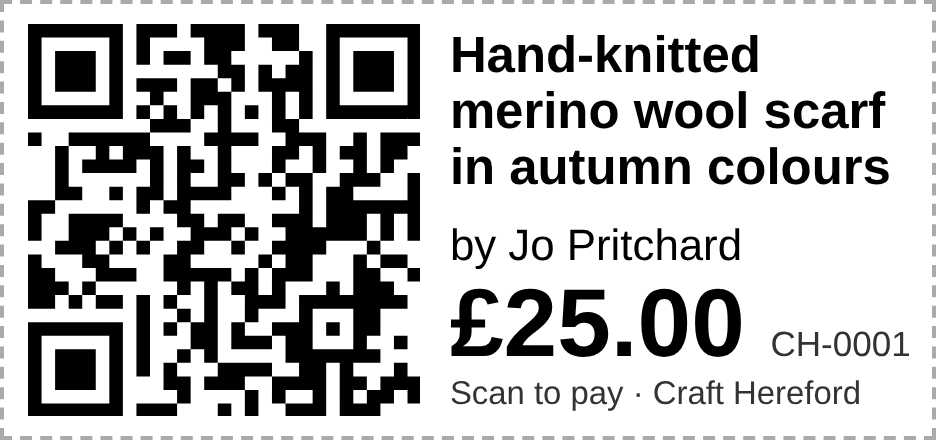
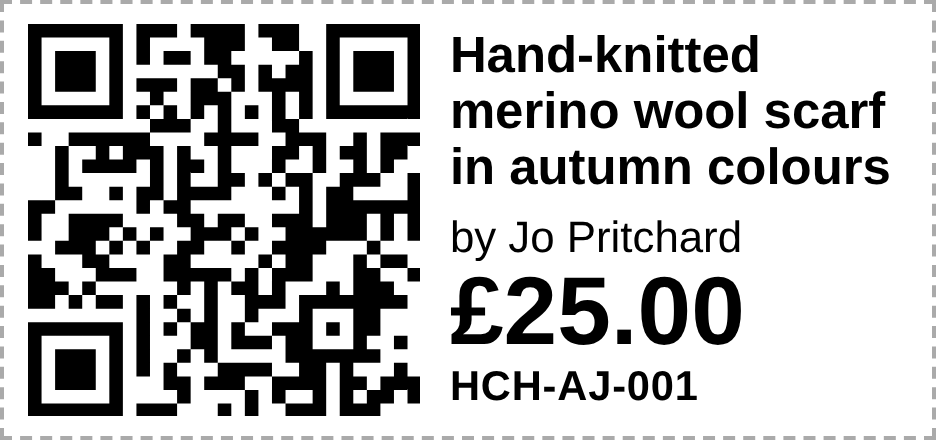
Auto-generate item codes from location and maker, print them on labels
Codes look like HCH-AJ-001 (location - maker - running number), are fixed
once set, and use short codes on the Makers and Locations tabs. The label
shows the code in bold on its own line.

Claude-Session: https://claude.ai/code/session_01VGGDb7Qun3dbBwmL14uWAa

Changed region(s): [[0.4628, 0.5023, 0.9872, 0.9455], [0.6787, 0.6205, 0.8021, 0.7091]]

diff --git a/google-sheet/Labels.html b/google-sheet/Labels.html
@@ -33,10 +33,9 @@
     .desc { flex: 1 1 0; min-height: 0; overflow: hidden; font-weight: bold; line-height: 1.1;
             font-size: calc(var(--h) * 0.13); }
     .maker { flex: 0 0 auto; font-size: calc(var(--h) * 0.1); line-height: 1.15; overflow: hidden; white-space: nowrap; text-overflow: ellipsis; }
-    .bottom { flex: 0 0 auto; display: flex; justify-content: space-between; align-items: baseline; gap: 1mm; }
-    .price { font-weight: bold; font-size: calc(var(--h) * 0.22); line-height: 1.05; white-space: nowrap; }
-    .code { font-size: calc(var(--h) * 0.08); color: #333; white-space: nowrap; flex-shrink: 0; }
-    .scan { flex: 0 0 auto; font-size: calc(var(--h) * 0.075); color: #333; white-space: nowrap; overflow: hidden; }
+    .price { flex: 0 0 auto; font-weight: bold; font-size: calc(var(--h) * 0.22); line-height: 1.05; white-space: nowrap; }
+    .code { flex: 0 0 auto; font-size: calc(var(--h) * 0.095); line-height: 1.1; white-space: nowrap; overflow: hidden; }
+    .code b { letter-spacing: 0.02em; }
 
     @media print {
       #controls, #hint { display: none !important; }
@@ -100,11 +99,11 @@
           var text = el('div', 'text');
           text.appendChild(el('div', 'desc', r.desc));
           text.appendChild(el('div', 'maker', 'by ' + r.maker));
-          var bottom = el('div', 'bottom');
-          bottom.appendChild(el('div', 'price', r.price));
-          bottom.appendChild(el('div', 'code', r.code));
-          text.appendChild(bottom);
-          text.appendChild(el('div', 'scan', 'Scan to pay · Craft Hereford'));
+          text.appendChild(el('div', 'price', r.price));
+          var code = el('div', 'code');
+          code.appendChild(el('b', '', r.code));
+          code.appendChild(document.createTextNode(' \u00b7 Scan to pay'));
+          text.appendChild(code);
           label.appendChild(qr);
           label.appendChild(text);
           box.appendChild(label);
@@ -112,6 +111,7 @@
         }
       });
       fitDescriptions();
+      fitCodes();
       document.getElementById('status').textContent =
         rows.length ? count + ' label(s) ready.' : 'No rows to print. Create links first, or select rows with links.';
     }
@@ -125,6 +125,23 @@
         while (d.scrollHeight > d.clientHeight + 1 && size > min) {
           size -= 0.2;
           d.style.fontSize = size + 'mm';
+        }
+      });
+    }
+
+    // The item code is what matters: if it doesn't fit beside "Scan to pay", drop that text,
+    // then shrink the code itself down to a readable minimum.
+    function fitCodes() {
+      var h = Number(document.getElementById('h').value) || 29;
+      var min = h * 0.06;   // mm
+      document.querySelectorAll('.code').forEach(function (c) {
+        if (c.scrollWidth > c.clientWidth + 1 && c.lastChild && c.lastChild.nodeType === 3) {
+          c.removeChild(c.lastChild);
+        }
+        var size = h * 0.095;
+        while (c.scrollWidth > c.clientWidth + 1 && size > min) {
+          size -= 0.1;
+          c.style.fontSize = size + 'mm';
         }
       });
     }

diff --git a/docs/google-sheet-labels.md b/docs/google-sheet-labels.md
@@ -2,7 +2,7 @@
 
 Type your products into a Google Sheet. One menu command creates a Square payment link for every new row, and another prints labels showing the **QR code, product description, maker name and price**.
 
-![Example label, 62 × 29 mm](label-example.png)
+![Example label, 62 × 29 mm: description, maker, price, QR code and item code](label-example.png)
 
 Files (in [`google-sheet/`](../google-sheet/)):
 
@@ -52,15 +52,15 @@ Start in sandbox: links work with Square's test cards and no real money moves.
 
 | Tab | What goes in it |
 |---|---|
-| **Makers** | One row per maker: name, email, phone, address. These names fill the **Maker** dropdown on Products. |
-| **Locations** | One row per venue: name, **venue commission %**, email, phone, address. These names fill the **Location** dropdown. A new location gets the default venue commission from Settings (10%); change it on its own row if that venue agreed something different. |
+| **Makers** | One row per maker: name, **code**, email, phone, address. These names fill the **Maker** dropdown on Products. The code fills itself in from the name (Amanda Jones → `AJ`); type over it to choose your own. |
+| **Locations** | One row per venue: name, **venue commission %**, **code**, email, phone, address. The code fills itself in like a maker's (Hereford Coffee House → `HCH`). These names fill the **Location** dropdown. A new location gets the default venue commission from Settings (10%); change it on its own row if that venue agreed something different. |
 | **Settings** | The default venue commission (10%), the default selling commission (10%), and the list of selling-commission rates offered in the dropdown (0%, 5%, 10%, 15%, 20%, 25%, 30%). Edit the list to add rates such as 12.5%. |
 | **Products** | One row per item (see below). |
 
 Add makers and locations first, and delete the example row on each tab. Keep names unique and spelled the way you want them to appear on labels. If you rename a maker or location, re-pick it on the Products rows that used it.
 
 ### Add products
-On the **Products** tab fill in **Product description**, **Maker** (dropdown), **Location** (dropdown) and **Price (GBP)**. Leave Item code, link and Status for the script. Keep descriptions short (about 40 characters or fewer); long ones are printed in a smaller font.
+On the **Products** tab fill in **Product description**, **Maker** (dropdown), **Location** (dropdown) and **Price (GBP)**. Leave Item code, link and Status for the script (the item code is made for you, see below). Keep descriptions short (about 40 characters or fewer); long ones are printed in a smaller font.
 
 The commission columns work like this:
 
@@ -72,9 +72,25 @@ Example: a £25.00 scarf in a café on 10% venue commission and 10% selling comm
 
 When you set an item's **Status** to *Sold*, its venue commission % is frozen, so changing a location's rate later doesn't alter past sales. (Setting the status back to Draft or Listed restores the lookup.)
 
+### Item codes
+
+Each item's code is made automatically as soon as you have picked both its **Maker** and its **Location**:
+
+```
+HCH-AJ-001
+ │   │   └─ number, counting up for that location + maker (001, 002, …)
+ │   └───── maker's code (Amanda Jones)
+ └───────── location's code (Hereford Coffee House)
+```
+
+- The code is saved as fixed text. It doesn't change if you sort or delete rows, or later change the maker or location of that row, so a printed label always matches the sheet and the Square payment.
+- The code appears in the Square payment link name and on the printed label, so a customer, a café or you can quote it.
+- Two makers (or two locations) can end up with the same code, for example Amanda Jones and Alan Jenkins are both `AJ`. These cells turn red. Type a different code over the formula (`AMJ`) **before** adding their items.
+- This needs the script installed (see setup). Without it, the Item code column stays empty and you'd type codes yourself.
+
 ### Create links
 **Craft Hereford → 1. Create Square links for new rows**.
-Each row without a link gets one, and the script writes back the item code (`CH-0001`, `CH-0002`, …), the link URL, and sets Status to *Listed*. Rows with a problem (no price, maker, location or commission rate) are skipped and listed in the message.
+Each row without a link gets one, and the script writes back the link URL, and sets Status to *Listed*. Rows with a problem (no price, maker, location or commission rate) are skipped and listed in the message.
 
 ### Print labels
 1. Optional: select the rows you want (select two or more rows). With no selection, every row with Status *Listed* is printed.
